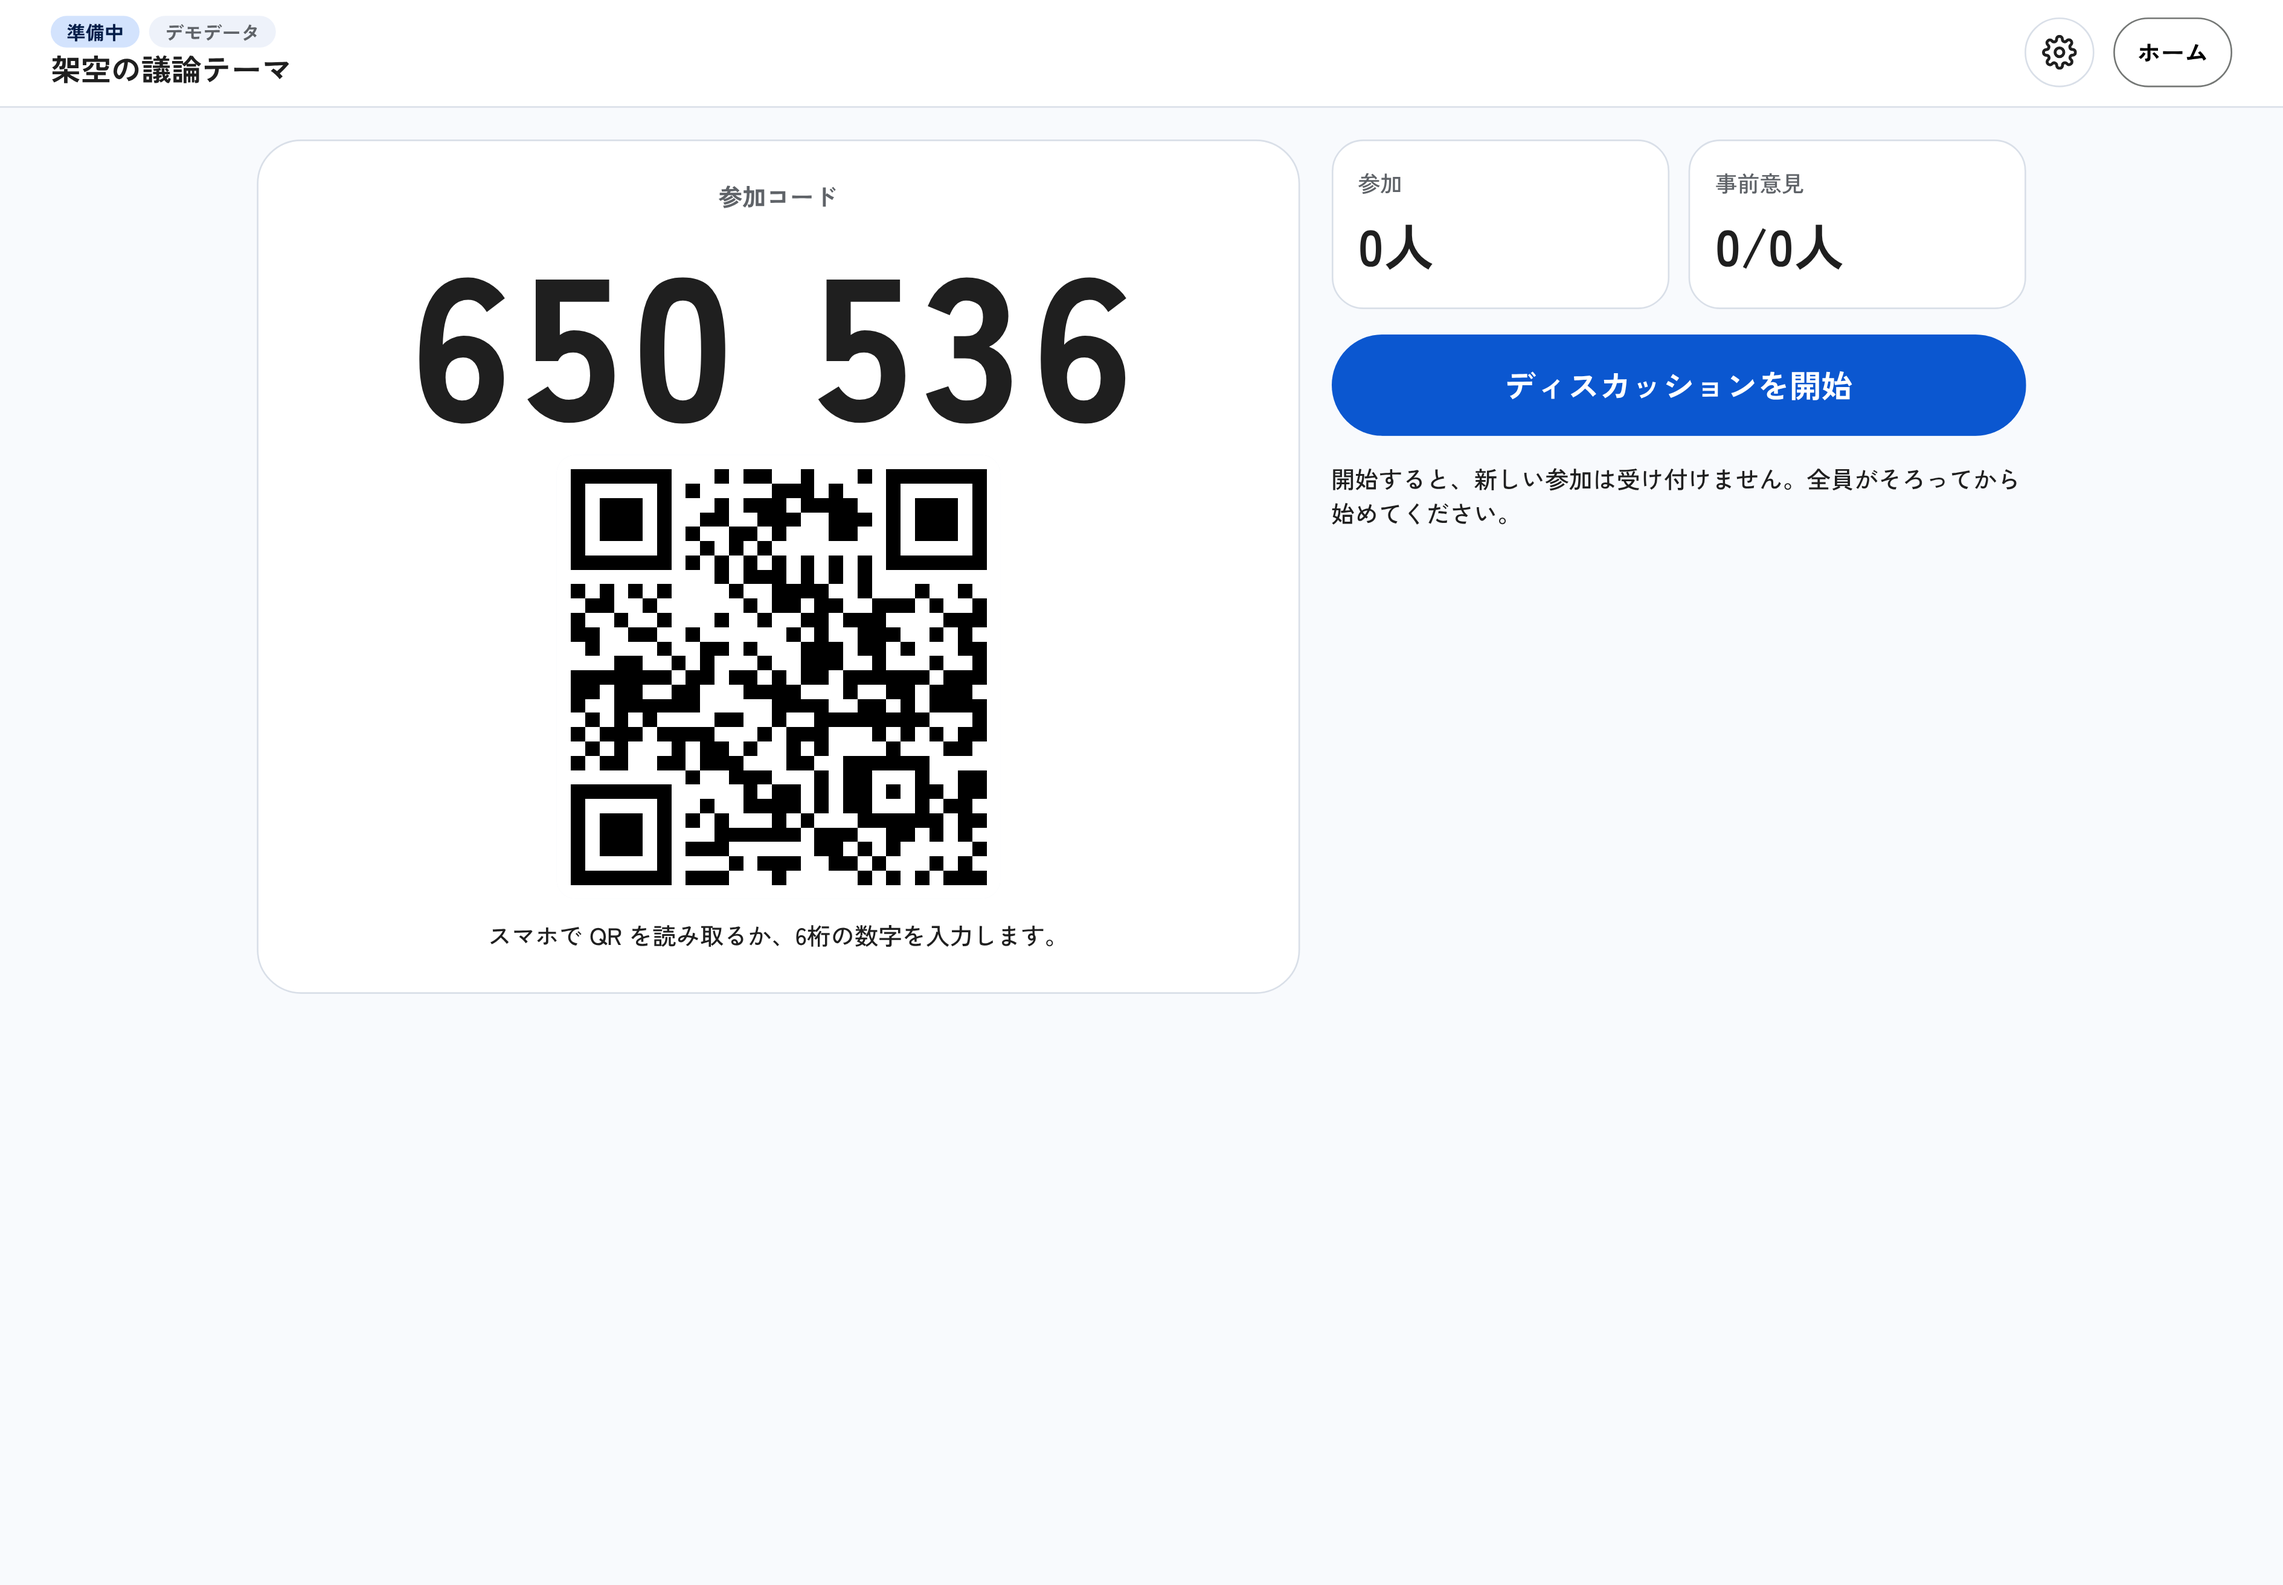
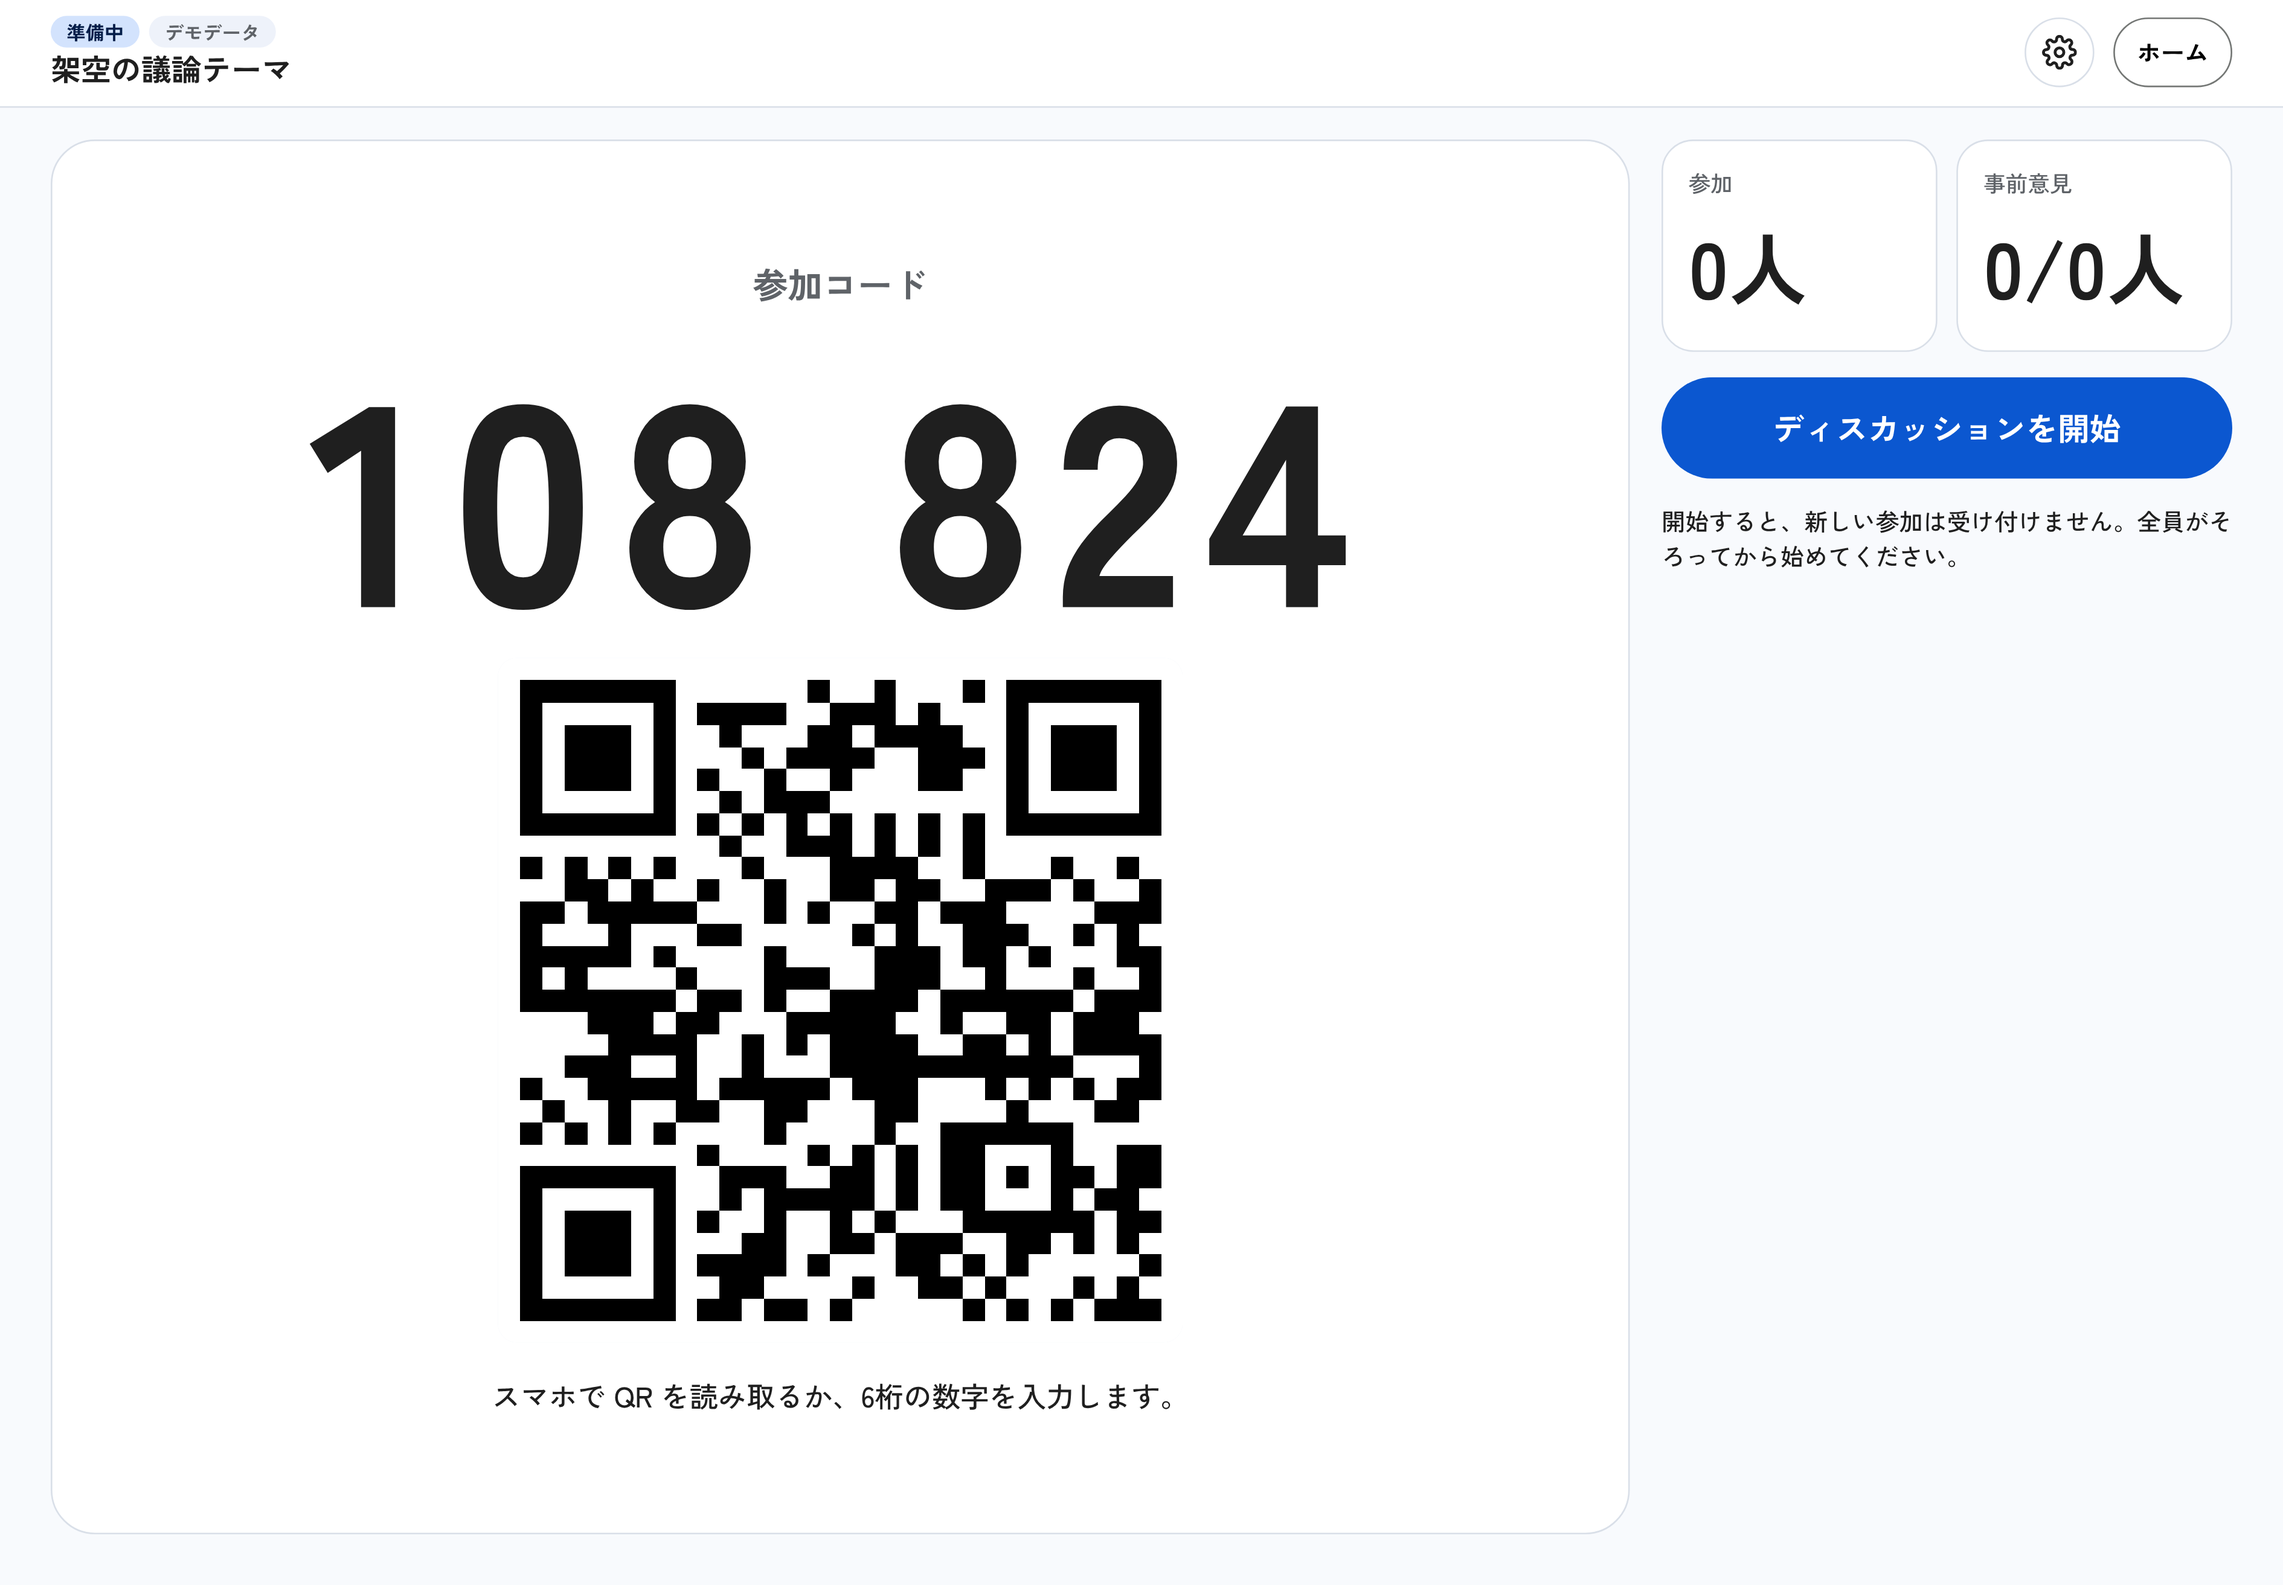
feat(web): 教室で投影する画面では、参加コードとQRを画面の高さに合わせて大きくする (#44)
## 背景・目的

教員の準備中の画面（参加コードとQR）は、教室のプロジェクターに映して使います。genellect/devfest2026-t167#41
のあと、投影でよく使う解像度で撮影して確かめました。その結果、1920×1080 でも参加コードの高さが 128px、QR が 280px
で、画面の上の一部にしか出ていませんでした。教室の後ろの席から読みにくい大きさです。

対応するフィードバックは次の2つです。

- Ryota：「セッションを開始を強調ダッシュボードメインで」
- 共通：「教員UI 見にくい」

## 変更内容

`web/src/app/app.css` だけの変更です。幅 900px 以上の横長の画面に、次を足しました。

- 参加コードの数字を画面の高さの 19%（幅の 12.5% まで）にしました。QR は画面の高さの 44%（幅の 30% まで）です。
- 参加コードの面を画面の高さいっぱいにし、投影してもスクロールしないようにしました。
- 参加人数と事前意見の数も大きくしました。「ディスカッションを開始」は右側に残しています。
- スマホ（幅 900px 未満、縦向き）の表示は変えていません。

| 解像度 | 参加コードの高さ | QR の幅 |
|---|---|---|
| 1920×1080 | 128px → 205px | 280px → 475px |
| 1366×768 | 128px → 146px | 280px → 338px |
| 1024×768 | 128px → 128px | 280px → 307px |

どの解像度でも、QR の下端は画面の内側に収まっています（1920×1080 で 922px、1366×768 と 1024×768 で
663px と 639px）。

## 本番への影響

CSS だけの変更です。API・Rules・データ・Gemini の呼び出しは変わりません。

## 検証

- [x] `PW_CHROMIUM_PATH=/opt/pw-browsers/chromium bash scripts/dev.sh
check`：全項目成功（API の単体と結合 168件、Web 単体、E2E 33件）。
- 1920×1080・1366×768・1024×768 で撮影し、参加コードと QR の大きさと位置を測りました（上の表）。スマホ幅の
E2E（横にはみ出さないこと）も通っています。
- 読んだタブと方向性との対応：
  - Docs の全タブ（インフラ構築手順書を除く）を読み直し、前回から変わっていないことを確かめました。
  - UIフィードバック（教員UIの見やすさ・ダッシュボード中心）と、構想の「司会者がPCで議論全体を把握する」に対応します。

## 残る課題

- 実際のプロジェクターでの見え方は、まだ確かめていません。

## スクリーンショット（1920×1080・架空データ・エミュレータ）

![投影したときの準備中の画面](https://raw.githubusercontent.com/genellect/devfest2026-t167/feat/projector-lobby/docs/screenshots/teacher-lobby-projector.png)

## チェックリスト

- [x] 1つの目的に絞り、無関係な変更を含めていない
[…]

diff --git a/web/src/app/app.css b/web/src/app/app.css
@@ -150,6 +150,16 @@ input[type=checkbox] { width: 20px; height: 20px; flex: 0 0 auto; margin: 2px 0 
 .stats dd { margin: 4px 0 0; font-size: 32px; font-weight: 700; font-variant-numeric: tabular-nums; }
 .start-btn { min-height: 64px; font-size: 20px; }
 @media (min-width: 900px) { .lobby { grid-template-columns: minmax(0, 3fr) minmax(300px, 2fr); align-items: start; } }
+/* 教室で投影する横長の画面：参加コードとQRを画面の高さに合わせて大きくし、後ろの席からも読めるようにする */
+@media (min-width: 900px) and (orientation: landscape) {
+  .teacher__body.lobby { width: min(1640px, 100%); grid-template-columns: minmax(0, 1fr) minmax(300px, 360px); }
+  .lobby__code { min-height: calc(100dvh - 120px); align-content: center; padding: 3vh 24px; gap: 2vh; }
+  .lobby__label { font-size: clamp(15px, 2.2vh, 24px); }
+  .lobby__digits { font-size: min(19vh, 12.5vw); letter-spacing: .08em; }
+  .lobby__qr { width: min(44vh, 30vw); }
+  .lobby__code .t-note { font-size: clamp(14px, 1.8vh, 20px); }
+  .stats dd { font-size: clamp(32px, 5vh, 56px); }
+}
 /* 議論中：経過時間と終了の帯、提案とグループの2列 */
 .live-bar { display: flex; flex-wrap: wrap; align-items: center; gap: 12px 20px; background: #fff; border: 1px solid var(--line-soft); border-radius: 20px; padding: 14px 18px; }
 .live-bar__time { font-size: 28px; font-weight: 700; font-variant-numeric: tabular-nums; }
